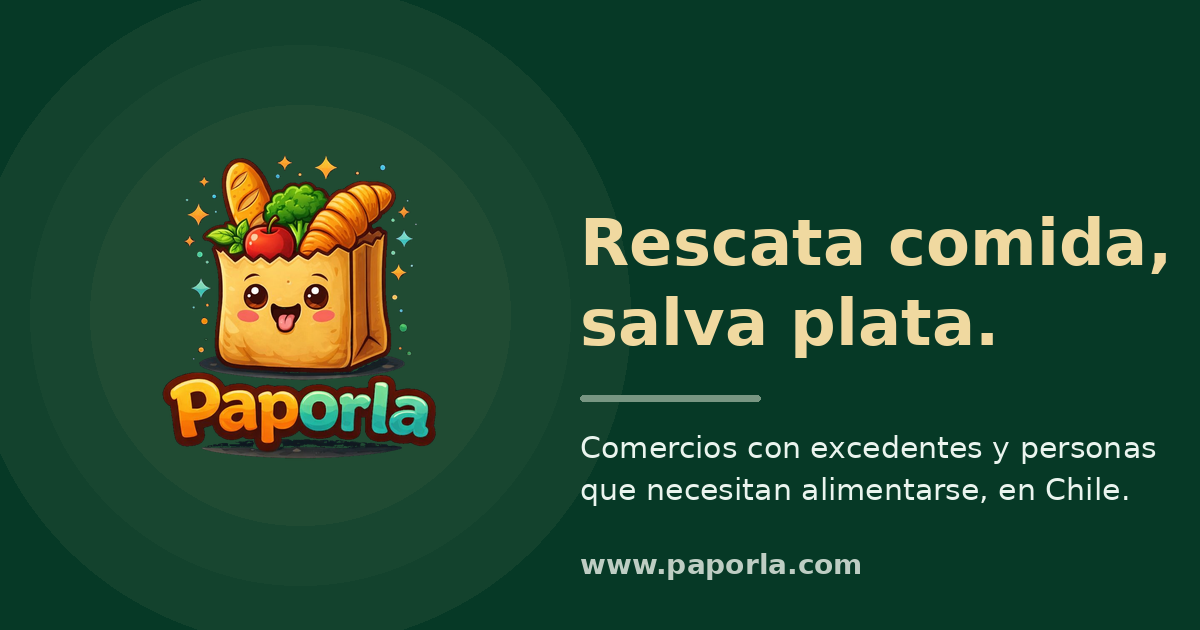
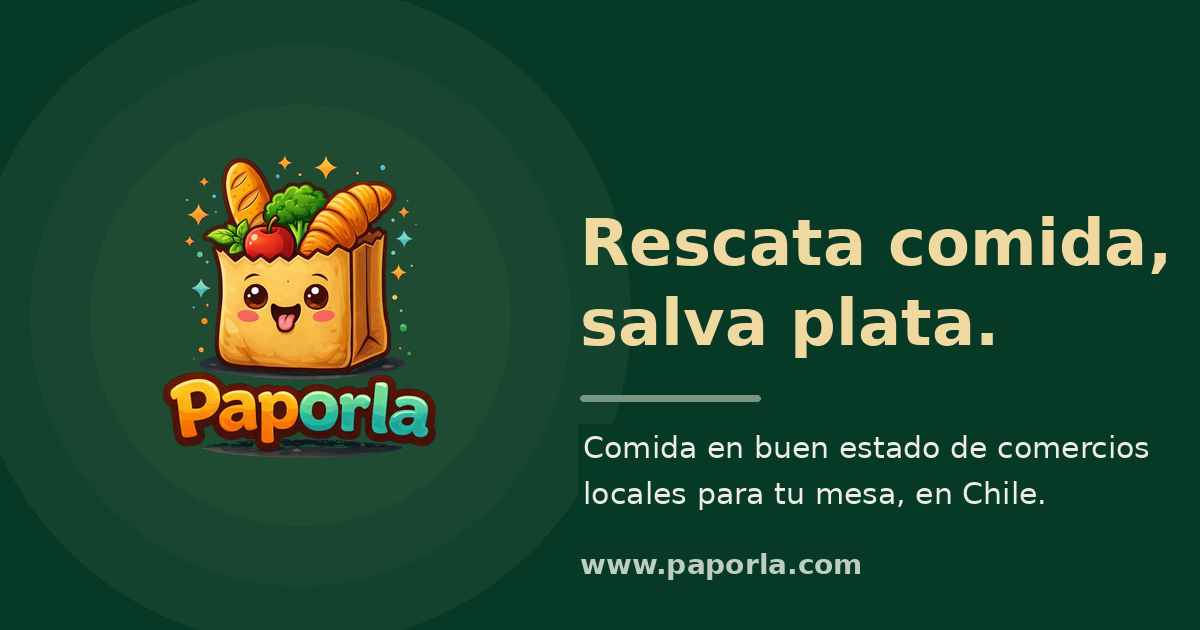
feat(brand): lema nuevo sin frase despectiva, og-image acorde

Changed region(s): [[0.4625, 0.6937, 0.9867, 0.8143]]

diff --git a/src/app/layout.tsx b/src/app/layout.tsx
@@ -18,8 +18,7 @@ export const metadata: Metadata = {
     default: 'Paporla - Rescate Alimentario',
     template: '%s | Paporla',
   },
-  description:
-    'Conectamos comercios con excedentes de comida con personas que necesitan alimentarse. Reduce el desperdicio, ayuda a tu comunidad.',
+  description: 'Rescatamos comida en buen estado de comercios locales para tu mesa. Menos desperdicio, más comunidad.',
   keywords: [
     'rescate alimentario',
     'comida',
@@ -40,7 +39,7 @@ export const metadata: Metadata = {
     siteName: 'Paporla',
     title: 'Paporla - Rescate Alimentario',
     description:
-      'Conectamos comercios con excedentes de comida con personas que necesitan alimentarse. Reduce el desperdicio, ayuda a tu comunidad.',
+      'Rescatamos comida en buen estado de comercios locales para tu mesa. Menos desperdicio, más comunidad.',
     images: [
       {
         // Paso 43: PNG real de 1200x630; WhatsApp, Telegram y Twitter no
@@ -56,7 +55,7 @@ export const metadata: Metadata = {
   twitter: {
     card: 'summary_large_image',
     title: 'Paporla - Rescate Alimentario',
-    description: 'Conectamos comercios con excedentes de comida con personas que necesitan alimentarse.',
+    description: 'Rescatamos comida en buen estado de comercios locales para tu mesa.',
     images: ['/og-image.png'],
     creator: '@paporla',
   },
@@ -113,8 +112,7 @@ export default async function RootLayout({ children }: { children: React.ReactNo
               '@context': 'https://schema.org',
               '@type': 'Organization',
               name: 'Paporla',
-              description:
-                'Rescate Alimentario - Conectamos comercios con excedentes de comida con personas que necesitan alimentarse.',
+              description: 'Rescate Alimentario - Comida en buen estado de comercios locales para tu mesa.',
               url: process.env.NEXT_PUBLIC_SITE_URL ?? 'https://paporla.com',
               logo: `${process.env.NEXT_PUBLIC_SITE_URL ?? 'https://paporla.com'}/favicon/icon-512.png`,
               sameAs: ['https://instagram.com/paporla'],
